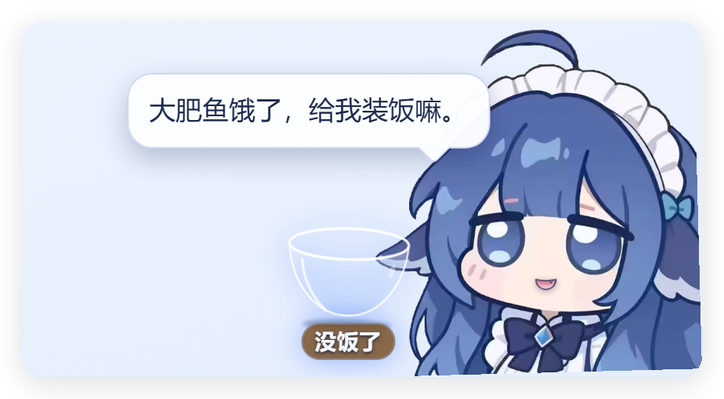
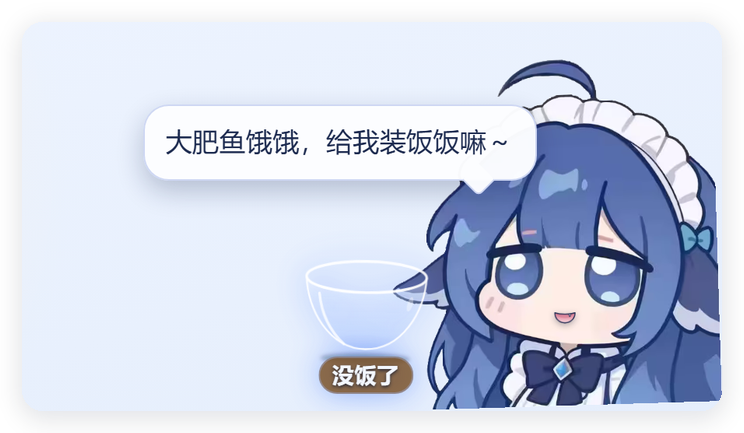
feat: v0.5.3 没饭不播吃饭动作 + 讨饭10次后饿坏了 + 碗位移到左侧 + 讨饭台词扩充

Changed region(s): [[0.1519, 0.0602, 0.9724, 0.9624], [0.942, 0.812, 0.9724, 0.8421]]

diff --git a/assets/client.js b/assets/client.js
@@ -57,6 +57,9 @@
     begDelayMs: 9000,
     begIntervalMs: 7000,
     begShowMs: 3400,
+    begTimes: 10,          // 先讨饭 10 次
+    starveDelayMs: 600000, // 十次讨饭后，再等 10 分钟 →「饿坏了」
+    starveIntervalMs: 30000,
     reportMs: 5200,
     // 鲸鱼嘴在立绘图里的相对位置（0~1），按宿主默认立绘 DSniang1.png 标定：
     // 脸在左下方，嘴落在双眼中间偏下（x 55.5%、y 73.5%），嘴宽 = 立绘宽的 8%。
@@ -64,7 +67,30 @@
   };
 
   var DEFAULT_LINES = {
-    beg: ['饭…饭没了…', '咕噜…碗底都舔干净了。', '大肥鱼饿了，给我装饭嘛。', '这轮还没吃饱…', '喂我一口，什么活都干。'],
+    beg: [
+      '饭饭…饭饭没有啦…',
+      '呜呜…肚子咕噜咕噜叫…',
+      '大肥鱼饿饿，给我装饭饭嘛～',
+      '咕噜咕噜…碗底光光的啦…',
+      '一口…就一口嘛，好不好呀？',
+      '哎呀呀…饭没了哟…',
+      '饿饿…给我添点饭饭啦～',
+      '呜呜呜…要饭饭…',
+      '碗都舔得亮晶晶啦…',
+      '好饿好饿…咕咕叫啦…',
+      '饭饭香香…给我留一口嘛～',
+      '说话都没力气啦…来点饭饭嘛…'
+    ],
+    starve: [
+      '唔…已经饿到不想动啦…',
+      '大肥鱼饿坏了…扁扁的啦…',
+      '呜呜…眼前冒星星啦…',
+      '饿得软趴趴…快给点饭饭嘛…',
+      '咕…咕…肚子叫得没力气啦…',
+      '再不给饭…要变成鱼干啦…',
+      '饿坏啦…饭饭快来…',
+      '有气无力…就等一口饭饭…'
+    ],
     feed: ['装饭啦～', '好耶，有饭吃了。', '这碗先囤着，慢慢吃。', '闻起来好香。'],
     onboard: '点碗装饭：一碗 = 100 万 token；每轮吃完会报账，没饭了它会自己讨饭。'
   };
@@ -177,6 +203,12 @@
     begImgTimer: null,
     begMouthTimer: null,
     lastBeg: '',
+    begCount: 0,
+    begDone: false,
+    starving: false,
+    starveTimer: null,
+    starveLoop: null,
+    lastStarve: '',
     bubbleTimer: null,
     riceTimer: null,
     pourTimer: null,
@@ -229,11 +261,14 @@
       begDelayMs: DEFAULT_CONFIG.begDelayMs,
       begIntervalMs: DEFAULT_CONFIG.begIntervalMs,
       begShowMs: DEFAULT_CONFIG.begShowMs,
+      begTimes: DEFAULT_CONFIG.begTimes,
+      starveDelayMs: DEFAULT_CONFIG.starveDelayMs,
+      starveIntervalMs: DEFAULT_CONFIG.starveIntervalMs,
       reportMs: DEFAULT_CONFIG.reportMs,
       mouth: { x: DEFAULT_CONFIG.mouth.x, y: DEFAULT_CONFIG.mouth.y, size: DEFAULT_CONFIG.mouth.size }
     };
     if (!cfg || typeof cfg !== 'object') return base;
-    ['tokensPerBowl', 'biteTokens', 'pollRunningMs', 'pollIdleMs', 'begDelayMs', 'begIntervalMs', 'begShowMs', 'reportMs'].forEach(function (key) {
+    ['tokensPerBowl', 'biteTokens', 'pollRunningMs', 'pollIdleMs', 'begDelayMs', 'begIntervalMs', 'begShowMs', 'begTimes', 'starveDelayMs', 'starveIntervalMs', 'reportMs'].forEach(function (key) {
       var n = Number(cfg[key]);
       if (Number.isFinite(n) && n > 0) base[key] = n;
     });
@@ -718,7 +753,9 @@
 
   function enqueueEat(tokens, fast) {
     if (!rt.live) return;
-    var total = Math.max(0, Math.round(Number(tokens) || 0));
+    var avail = Math.max(0, Math.round(Number(rt.live.remain) || 0));
+    if (avail <= 0) return; // 碗里没饭了：不再触发吃饭动作
+    var total = Math.min(avail, Math.max(0, Math.round(Number(tokens) || 0)));
     if (total <= 0) return;
     var n = biteCountFor(total, fast);
     var chunk = total / n;
@@ -837,50 +874,64 @@
     }
   }
 
-  // ---------- 讨饭 ----------
+  // ---------- 讨饭 / 饿坏了 ----------
   function updateBegging() {
     var remain = liveRemain();
     var busy = !!rt.live || rt.eatBusy || rt.eatQueue.length > 0;
     var should = !!rt.settings.begging && !busy && remain <= 0;
     if (!should) { stopBegging(); return; }
+    if (rt.starving) { ensureStarveLoop(); return; }
+    if (rt.begDone) { ensureStarveTimer(); return; }
     if (rt.begging) return;
     rt.begging = true;
+    rt.begCount = 0;
     if (rt.begTimer) { clearTimeout(rt.begTimer); clearInterval(rt.begTimer); rt.begTimer = null; }
     rt.begTimer = setTimeout(function () {
       if (!rt.begging) return;
+      if (liveRemain() > 0) { stopBegging(); return; }
       begPulse();
-      rt.begTimer = setInterval(begPulse, Math.max(2400, Number(rt.config.begIntervalMs) || 7000));
+      rt.begTimer = setInterval(function () {
+        if (!rt.begging) return;
+        if (liveRemain() > 0) { stopBegging(); return; }
+        begPulse();
+      }, Math.max(2400, Number(rt.config.begIntervalMs) || 7000));
     }, Math.max(800, Number(rt.config.begDelayMs) || 6000));
   }
 
   function stopBegging() {
     rt.begging = false;
+    rt.begCount = 0;
+    rt.begDone = false;
+    rt.starving = false;
     if (rt.begTimer) { clearTimeout(rt.begTimer); clearInterval(rt.begTimer); rt.begTimer = null; }
+    if (rt.starveTimer) { clearTimeout(rt.starveTimer); rt.starveTimer = null; }
+    if (rt.starveLoop) { clearInterval(rt.starveLoop); rt.starveLoop = null; }
     if (rt.begShowTimer) { clearTimeout(rt.begShowTimer); rt.begShowTimer = null; }
     if (rt.begImgTimer) { clearTimeout(rt.begImgTimer); rt.begImgTimer = null; }
     if (rt.begMouthTimer) { clearTimeout(rt.begMouthTimer); rt.begMouthTimer = null; }
-    if (rt.layer) rt.layer.classList.remove('dshwr-beg');
-    try {
-      var img = rt.root && rt.root.querySelector('.dshwv-img');
-      if (img) img.classList.remove('dshwr-beg-img');
-    } catch (err) {}
+    if (rt.layer) rt.layer.classList.remove('dshwr-beg', 'dshwr-starving');
+    var img = hungerImg();
+    if (img) img.classList.remove('dshwr-beg-img', 'dshwr-starve-img');
   }
 
-  function pickBegLine() {
-    var pool = (rt.lines && Array.isArray(rt.lines.beg) && rt.lines.beg.length) ? rt.lines.beg : DEFAULT_LINES.beg;
-    if (pool.length === 1) return pool[0];
-    var line = pool[Math.floor(Math.random() * pool.length)];
-    if (line === rt.lastBeg) line = pool[(pool.indexOf(line) + 1) % pool.length];
-    rt.lastBeg = line;
+  function hungerImg() {
+    try { return rt.root ? rt.root.querySelector('.dshwv-img') : null; } catch (err) { return null; }
+  }
+
+  function pickHungerLine(pool, lastKey) {
+    var arr = (rt.lines && Array.isArray(pool) && pool.length) ? pool : ['…'];
+    if (arr.length === 1) return arr[0];
+    var line = arr[Math.floor(Math.random() * arr.length)];
+    if (line === rt[lastKey]) line = arr[(arr.indexOf(line) + 1) % arr.length];
+    rt[lastKey] = line;
     return line;
   }
 
   function begPulse() {
-    if (!rt.begging || !rt.mounted) return;
+    if (!rt.mounted) return;
     if (liveRemain() > 0) { stopBegging(); return; }
-    say(pickBegLine(), Number(rt.config.begShowMs) || 3400);
-    var img = null;
-    try { img = rt.root.querySelector('.dshwv-img'); } catch (err) { img = null; }
+    say(pickHungerLine(rt.lines.beg, 'lastBeg'), Number(rt.config.begShowMs) || 3400);
+    var img = hungerImg();
     if (img) {
       img.classList.remove('dshwr-beg-img');
       void img.offsetWidth;
@@ -903,6 +954,58 @@
       }
       if (rt.begMouthTimer) clearTimeout(rt.begMouthTimer);
       rt.begMouthTimer = setTimeout(closeMouth, 900);
+    }
+    rt.begCount += 1;
+    if (rt.begCount >= Math.max(1, Number(rt.config.begTimes) || 10)) {
+      rt.begging = false;
+      if (rt.begTimer) { clearInterval(rt.begTimer); rt.begTimer = null; }
+      rt.begDone = true;
+      ensureStarveTimer();
+    }
+  }
+
+  function ensureStarveTimer() {
+    if (rt.starveTimer || rt.starving) return;
+    rt.starveTimer = setTimeout(enterStarving, Math.max(5000, Number(rt.config.starveDelayMs) || 600000));
+  }
+
+  function enterStarving() {
+    rt.starveTimer = null;
+    if (!rt.settings.begging) return;
+    if (liveRemain() > 0) { stopBegging(); return; }
+    if (rt.starving) return;
+    rt.starving = true;
+    rt.begDone = true;
+    if (rt.layer) rt.layer.classList.add('dshwr-starving');
+    var img = hungerImg();
+    if (img) img.classList.add('dshwr-starve-img');
+    starvePulse();
+    if (rt.starveLoop) clearInterval(rt.starveLoop);
+    rt.starveLoop = setInterval(starvePulse, Math.max(8000, Number(rt.config.starveIntervalMs) || 30000));
+  }
+
+  function ensureStarveLoop() {
+    if (rt.starveLoop) return;
+    starvePulse();
+    rt.starveLoop = setInterval(starvePulse, Math.max(8000, Number(rt.config.starveIntervalMs) || 30000));
+  }
+
+  function starvePulse() {
+    if (!rt.starving) return;
+    if (liveRemain() > 0) { stopBegging(); return; }
+    say(pickHungerLine(rt.lines.starve, 'lastStarve'), Math.max(3000, Number(rt.config.begShowMs) || 3400) + 1200);
+    var img = hungerImg();
+    if (img) img.classList.add('dshwr-starve-img');
+    if (rt.settings.eat) {
+      layoutMouth();
+      var mouth = rt.els && rt.els.mouth;
+      if (mouth) {
+        mouth.classList.remove('dshwr-mouth-open');
+        mouth.classList.remove('dshwr-mouth-chomp');
+        mouth.classList.add('dshwr-mouth-soft');
+      }
+      if (rt.begMouthTimer) clearTimeout(rt.begMouthTimer);
+      rt.begMouthTimer = setTimeout(closeMouth, 1200);
     }
   }
 
@@ -1133,12 +1236,14 @@
     rebuildMenu();
     rt.els.menu.hidden = false;
     rt.menuOpen = true;
+    if (rt.layer) rt.layer.classList.add('dshwr-menu-open');
   }
 
   function closeMenu() {
     if (!rt.els) return;
     rt.els.menu.hidden = true;
     rt.menuOpen = false;
+    if (rt.layer) rt.layer.classList.remove('dshwr-menu-open');
   }
 
   function rebuildMenu() {
@@ -1179,7 +1284,7 @@
     if (!rt.els) return;
     var remaining = liveRemain();
     var tank = tankOf(activeSid());
-    var html = '<div class="dshwr-set-title"><span class="dshwr-unflip">白饭预言家</span><small>v0.5.2</small></div>';
+    var html = '<div class="dshwr-set-title"><span class="dshwr-unflip">白饭预言家</span><small>v0.5.3</small></div>';
     html += setRow('begging', '没饭时讨饭', rt.settings.begging);
     html += setRow('eat', '吃饭动作（嘴 / 嚼）', rt.settings.eat);
     html += setRow('sound', '吃饭音效', rt.settings.sound);

diff --git a/assets/client.css b/assets/client.css
@@ -709,14 +709,18 @@
 /* ---------- v0.5.0：多碗碗位 / 装饭提示 / 饭账 / 讨饭立绘 ---------- */
 .dshwr-stack {
   position: absolute;
-  left: 50%;
-  bottom: 101%;
-  transform: translateX(-50%);
+  left: auto;
+  right: 101%;
+  bottom: 40%;
+  transform: none;
   display: flex;
+  flex-direction: row;
   align-items: flex-end;
   gap: 0.16em;
   pointer-events: none;
+  transition: opacity 0.16s ease;
 }
+.dshwr-menu-open .dshwr-stack { opacity: 0; }
 .dshwr-stack[hidden] { display: none !important; }
 .dshwr-pip {
   position: relative;
@@ -797,4 +801,24 @@
 }
 @media (prefers-reduced-motion: reduce) {
   .dshwr-beg-img { animation: none; }
+}
+
+
+/* ---------- v0.5.3：饿坏了 ---------- */
+.dshwr-starve-img {
+  filter: saturate(0.5) brightness(0.96);
+  animation: dshwr-starve-sway 4.6s ease-in-out infinite;
+  transform-origin: 50% 100%;
+}
+@keyframes dshwr-starve-sway {
+  0%, 100% { transform: translateY(0) rotate(0); }
+  30% { transform: translateY(1%) rotate(-1.1deg); }
+  70% { transform: translateY(1.4%) rotate(1deg); }
+}
+.dshwr-starving .dshwr-bowl-svg {
+  opacity: 0.6;
+  filter: saturate(0.55);
+}
+@media (prefers-reduced-motion: reduce) {
+  .dshwr-starve-img { animation: none; }
 }

diff --git a/README.md b/README.md
@@ -16,9 +16,9 @@
 | --- | --- |
 | ![装饭菜单](docs/screenshot-menu.png) | ![每轮报账](docs/screenshot-report.png) |
 
-| 没饭了会讨饭 | 设置里的「本对话饭账」 |
-| --- | --- |
-| ![讨饭](docs/screenshot-beg.png) | ![饭账](docs/screenshot-settings.png) |
+| 没饭了会讨饭 | 饿久了会「饿坏了」 | 设置里的「本对话饭账」 |
+| --- | --- | --- |
+| ![讨饭](docs/screenshot-beg.png) | ![饿坏了](docs/screenshot-starving.png) | ![饭账](docs/screenshot-settings.png) |
 
 > 截图为本地 `npm run demo` 预览，鲸鱼立绘直接取自宿主插件 `dsh-whale-widget` 的默认角色图（仅用于演示，本包不打包任何上游素材）。真实使用时叠加在「小鲸鱼记账挂件」旁。
 
@@ -29,7 +29,7 @@
 | | 说明 |
 | --- | --- |
 | 宿主 | 「DSH 小鲸鱼记账挂件」`dsh-whale-widget`（右下角余额鲸鱼）。本插件是它的附加层，不是替代品。 |
-| 玩法 | 每个对话有自己的一锅饭：点碗装小碗（25 万 token）/ 半碗（50 万）/ 一碗（100 万）；每轮对话按真实 token 消耗吃米饭；每轮结束气泡报账「这轮吃了多少 · 还剩多少」；剩 0 时自动讨饭。 |
+| 玩法 | 每个对话有自己的一锅饭：点碗装小碗（25 万 token）/ 半碗（50 万）/ 一碗（100 万）；每轮对话按真实 token 消耗吃米饭；每轮结束气泡报账「这轮吃了多少 · 还剩多少」；没饭了先讨饭 10 次，再等 10 分钟会变成「饿坏了」。 |
 | 画面 | 透明玻璃碗装着**一整块煮熟的米饭**（米粒只是表面纹理）；主碗 + 最多 4 个碗位显示总库存（最多 5 碗，超过继续记账、UI 不变；装饭菜单：小碗 25 万 token = 1/4 碗、半碗 50 万 = 0.5 碗、一碗 100 万）。吃饭时鲸鱼**咧嘴（一颗小虎牙）**、木勺舀饭、饭团飞进嘴里、嚼两下，配更可爱的舀饭 / 碰碗 / 咀嚼音效（WebAudio 现场合成）。 |
 | 记录 | 每个对话（DSH session）独立记账：已装 / 已吃 / 剩余；切换对话各吃各的；刷新页面保留。 |
 | 不是 | 不是饱食度养成、不做等级/记忆、不自动估算、不读对话内容、不联网上传。 |
@@ -71,8 +71,8 @@ dsh plugin --profile web add link:C:/path/to/dsh-whale-ricebowl
 1. **装饭**：点饭碗 → 装小碗（25 万 token）/ 半碗（50 万）/ 一碗（100 万）。对话开始前也可以先装：这时饭先存在「待装饭」里，第一轮对话开始时自动倒进这个对话的锅。
 2. **每轮**：DSH `turn/start` 后鲸鱼开始干活；真实 token 到账时它张嘴吃饭，米饭一点点变少。
 3. **每轮结束**：`turn/end` 后气泡报账，例如「这轮吃了 5.4K · 剩 3 碗」；短回合也会补演至少一口再报账。
-4. **多碗**：1 碗 = 100 万 token；主碗 + 最多 4 个碗位 = 最多显示 5 碗；超过 5 碗继续记账但 UI 不变；下方标签显示剩余碗数。
-5. **讨饭**：剩 0 时自动讨饭——立绘上浮 / 歪头、张嘴「啊——」、气泡间隔出现 / 消失，文案随机且不连续两次相同；随时点碗加饭。
+4. **多碗**：1 碗 = 100 万 token；主碗 + 最多 4 个碗位 = 最多显示 5 碗（碗位排在主碗的**左侧**、向左延伸；打开装饭菜单时会自动隐藏）；超过 5 碗继续记账但 UI 不变；下方标签显示剩余碗数。
+5. **讨饭 → 饿坏了**：剩 0 时自动讨饭——先讨饭 **10 次**（立绘上浮 / 歪头、张嘴「啊——」、气泡间隔出现 / 消失，文案随机且不连续两次相同）；之后安静等 **10 分钟**，自然过渡成「**饿坏了**」：立绘发灰耷拉、慢悠悠地晃，气泡变得有气无力；随时点碗加饭，喂饭就立刻恢复正常。
 6. **设置**：右键饭碗 → 开关「没饭时讨饭 / 吃饭动作（嘴 / 嚼）/ 吃饭音效 / 米粒特效 / 数字标签」，查看「本对话饭账」（已装 / 已吃 / 剩），或「清空饭账」。
 7. **刷新 / 重启**：饭账存在浏览器 localStorage；资源都是 `no-store`，改样式刷新页面即可。
 
@@ -99,7 +99,7 @@ v0.5.0 把吃饭动画改成了**串行咀嚼队列**：
 
 | 文件 | 改什么 |
 | --- | --- |
-| `assets/config.json` | `tokensPerBowl`（1 碗 = 多少 token，默认 100 万）、`maxBowls`（最多显示几碗，默认 5）、`feedOptions`（装饭菜单档位：小碗 25 万 / 半碗 50 万 / 一碗 100 万）、`biteTokens`（每口 token 粒度）、轮询 / 讨饭 / 报账时长、嘴部锚点 `mouth.x / mouth.y / mouth.size` |
+| `assets/config.json` | `tokensPerBowl`（1 碗 = 多少 token，默认 100 万）、`maxBowls`（最多显示几碗，默认 5）、`feedOptions`（装饭菜单档位：小碗 25 万 / 半碗 50 万 / 一碗 100 万）、`biteTokens`（每口 token 粒度）、`begTimes`（讨饭次数，默认 10）、`starveDelayMs`（讨饭完到「饿坏了」的等待，默认 10 分钟）、`starveIntervalMs`（饿坏了之后的气泡间隔）、轮询 / 报账时长、嘴部锚点 `mouth` |
 | `assets/lines.json` | 台词池（讨饭 / 装饭 / 首次引导） |
 | `lib/state.js` | 计费口径 `COUNT_CACHE_READ` |
 

diff --git a/README-En.md b/README-En.md
@@ -16,9 +16,9 @@ Eating close-up (whale art belongs to the host widget): a grin with one little f
 | --- | --- |
 | ![menu](docs/screenshot-menu.png) | ![report](docs/screenshot-report.png) |
 
-| Begging when empty | Per-conversation ledger |
-| --- | --- |
-| ![begging](docs/screenshot-beg.png) | ![ledger](docs/screenshot-settings.png) |
+| Begging when empty | Starving after a while | Per-conversation ledger |
+| --- | --- | --- |
+| ![begging](docs/screenshot-beg.png) | ![starving](docs/screenshot-starving.png) | ![ledger](docs/screenshot-settings.png) |
 
 > Screenshots come from the local `npm run demo` preview. The whale art is loaded from the host plugin `dsh-whale-widget` (`DSniang1.png`) for demonstration only; this package bundles no upstream art.
 
@@ -27,7 +27,7 @@ Eating close-up (whale art belongs to the host widget): a grin with one little f
 | | |
 | --- | --- |
 | Host | The DSH whale balance widget `dsh-whale-widget`. This plugin is an add-on, not a replacement. |
-| Gameplay | Each conversation has its own rice pot: click the bowl to load a small bowl (250K tokens) / half bowl (500K) / one bowl (1M). Every turn eats real tokens; at turn end a bubble reports "ate X · Y bowls left". At zero it begs automatically. |
+| Gameplay | Each conversation has its own rice pot: click the bowl to load a small bowl (250K tokens) / half bowl (500K) / one bowl (1M). Every turn eats real tokens; at turn end a bubble reports "ate X · Y bowls left". At zero it begs 10 times, then after 10 quiet minutes turns into a starving whale. |
 | Visuals | Transparent glass bowl with a solid mound of cooked rice (grain texture on the surface). Main bowl + up to 4 bowl slots show the stock (max 5 bowls on screen; beyond that the ledger keeps counting while the UI stays unchanged). The whale grins (one fang), a wooden spoon scoops, a rice ball flies into its mouth, plus cuter synthesized scoop / clink / chew sounds (WebAudio, no audio files). |
 | Ledger | Per conversation (DSH session): loaded / eaten / remaining. Switching conversations switches pots; survives page refresh. |
 | Not | Not a pet-raising game, no levels or memory, no auto-estimation, does not read conversation content, no network upload. |
@@ -53,8 +53,8 @@ Desktop (Electron): the host HTML is served statically, so this plugin also regi
 1. **Load rice**: click the bowl → load a small bowl (250K tokens) / half bowl (500K) / one bowl (1M). You can also load before a conversation — it is parked as "pending rice" and poured into the next conversation's pot when its first turn starts.
 2. **Each turn**: after `turn/start`, real usage makes the whale eat; the rice level drops.
 3. **Turn end**: a bubble reports e.g. "ate 5.4K · 3 bowls left". Short turns are replayed so at least one bite is always shown before the report.
-4. **Bowls**: 1 bowl = 1,000,000 tokens; main bowl + 4 slots = 5 visible bowls max. More than 5 bowls keeps counting but the UI stays the same.
-5. **Begging**: at zero, the whale bobs / tilts, opens its mouth ("ahh—"), and shows a bubble at intervals with random lines (never the same twice in a row). Click the bowl anytime to add rice.
+4. **Bowls**: 1 bowl = 1,000,000 tokens; main bowl + 4 slots = 5 visible bowls max (slots sit to the **left** of the main bowl and hide while the feed menu is open). More than 5 bowls keeps counting but the UI stays the same.
+5. **Begging → starving**: at zero the whale begs 10 times (bobs / tilts, opens its mouth, random bubbles, never the same twice in a row). After that it waits quietly for 10 minutes and then becomes "starving" — desaturated, droopy sway, weak bubbles. Feed it any time and it recovers instantly.
 6. **Settings**: right-click the bowl → toggles (begging / eating animation / sound / rice particles / number label), per-conversation ledger (loaded / eaten / remaining), and "clear ledger".
 7. **Refresh**: the ledger lives in localStorage; assets are served `no-store`.
 
@@ -79,7 +79,7 @@ v0.5.0 uses a **serial chewing queue**:
 
 | File | What |
 | --- | --- |
-| `assets/config.json` | `tokensPerBowl` (default 1,000,000), `maxBowls` (5), `feedOptions` (small bowl 250K / half 500K / one 1M), `biteTokens`, polling / begging / report timings, mouth anchor |
+| `assets/config.json` | `tokensPerBowl` (default 1,000,000), `maxBowls` (5), `feedOptions` (small bowl 250K / half 500K / one 1M), `biteTokens`, `begTimes` (default 10), `starveDelayMs` (10 min), `starveIntervalMs`, polling / report timings, mouth anchor |
 | `assets/lines.json` | line pools (begging / feeding / onboarding) |
 | `lib/state.js` | accounting toggle `COUNT_CACHE_READ` |
 

diff --git a/CHANGELOG.md b/CHANGELOG.md
@@ -1,5 +1,13 @@
 # Changelog
 
+## 0.5.3 — 2026-10-18
+
+* **没饭时不再播吃饭动作**：碗空之后本轮消耗照常记账，但鲸鱼不会再嚼（清空饭账后也不会再触发吃饭动画）。
+* **讨饭分两段**：先讨饭 10 次（气泡 + 立绘表演），之后安静等待 10 分钟，自然过渡成「饿坏了」——立绘发灰耷拉、慢悠悠晃、气泡有气无力；加饭立刻恢复。
+* **碗位位置**：小碗图标改到主碗**左侧**、向左排列；打开装饭菜单时自动隐藏。
+* **讨饭台词**：扩充到 12 条，更多语气词和叠词（饭饭 / 咕噜咕噜 / 呜呜 / 饿饿…）；另加 8 条「饿坏了」台词。
+* 截图更新（新增「饿坏了」截图）；README / README-En / tech-notes / 配置说明同步。
+
 ## 0.5.2 — 2026-10-18
 
 * 装饭菜单改成按「小碗 / 半碗 / 一碗」选：小碗 = 25 万 token、半碗 = 50 万、一碗 = 100 万（1 碗 = 100 万 token 的显示口径不变）。
